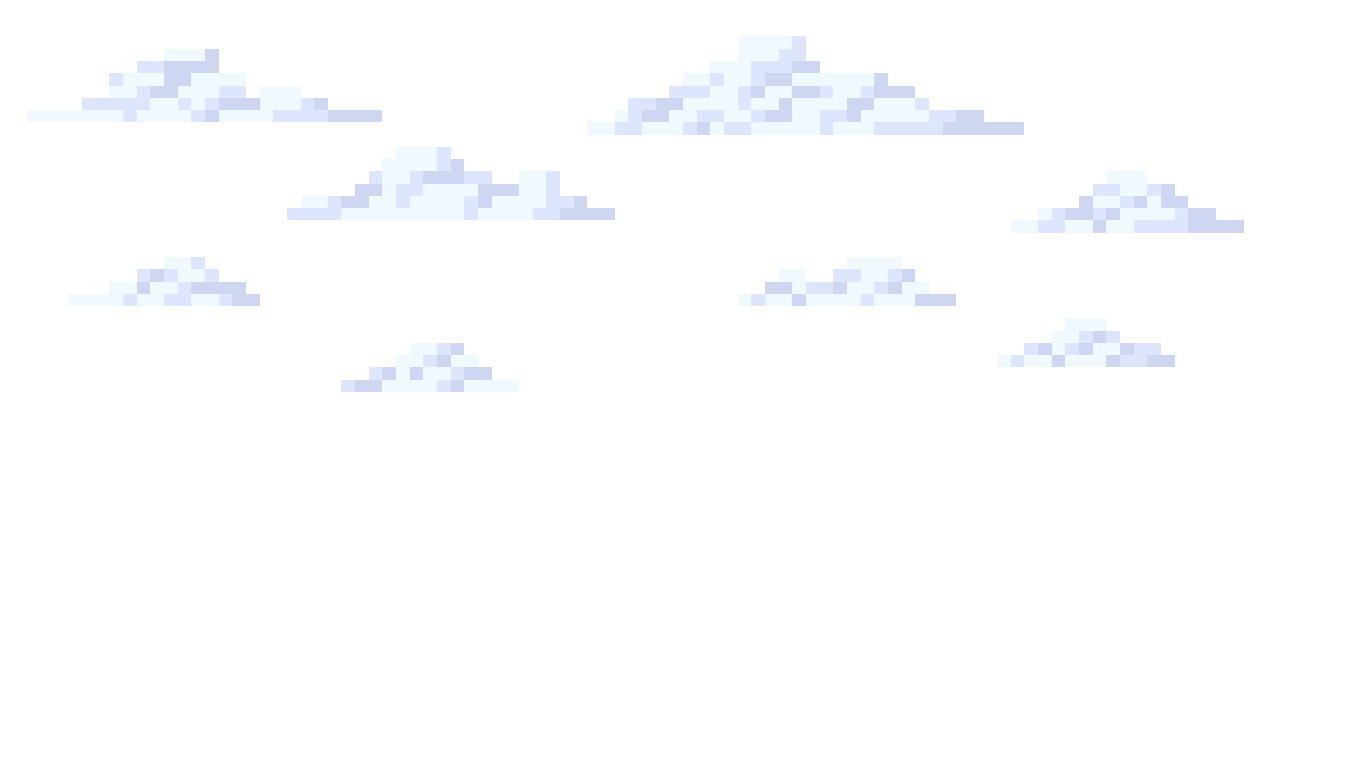
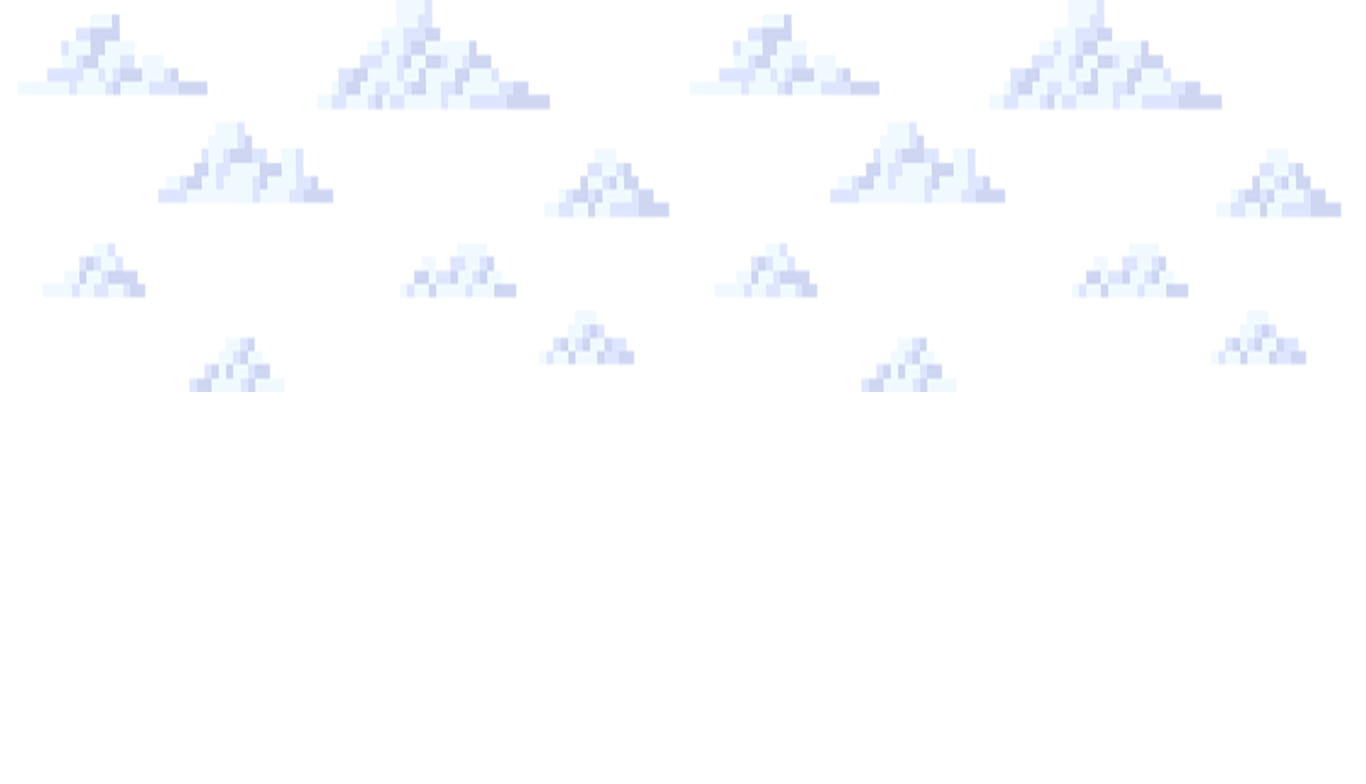
p1: fixed parallax objects so they don't looked "stretched"

diff --git a/Projects/Project 1- A Night at the Movies/js/Bludgers.js b/Projects/Project 1- A Night at the Movies/js/Bludgers.js
@@ -68,7 +68,6 @@ class Bludgers {
   }
 
   gravitate(harryPotter) {
-    //  console.log("in gravitate");
     if (this.follow === true) {
       //target is harry's position
       let targetX = harryPotter.sprite.position.x;
@@ -83,14 +82,6 @@ class Bludgers {
 
       let accelY = distY / 100;
       this.y += accelY;
-      // if (harryPotter.sprite.position.x < this.x) {
-      //   this.ax = -this.acceleration;
-      // } else {
-      //   this.ax = this.acceleration;
-      // }
-      // if (harryPotter.sprite.position.y < this.y) {
-      //   this.ay = -this.acceleration;
-      // }
     }
   }
 }
